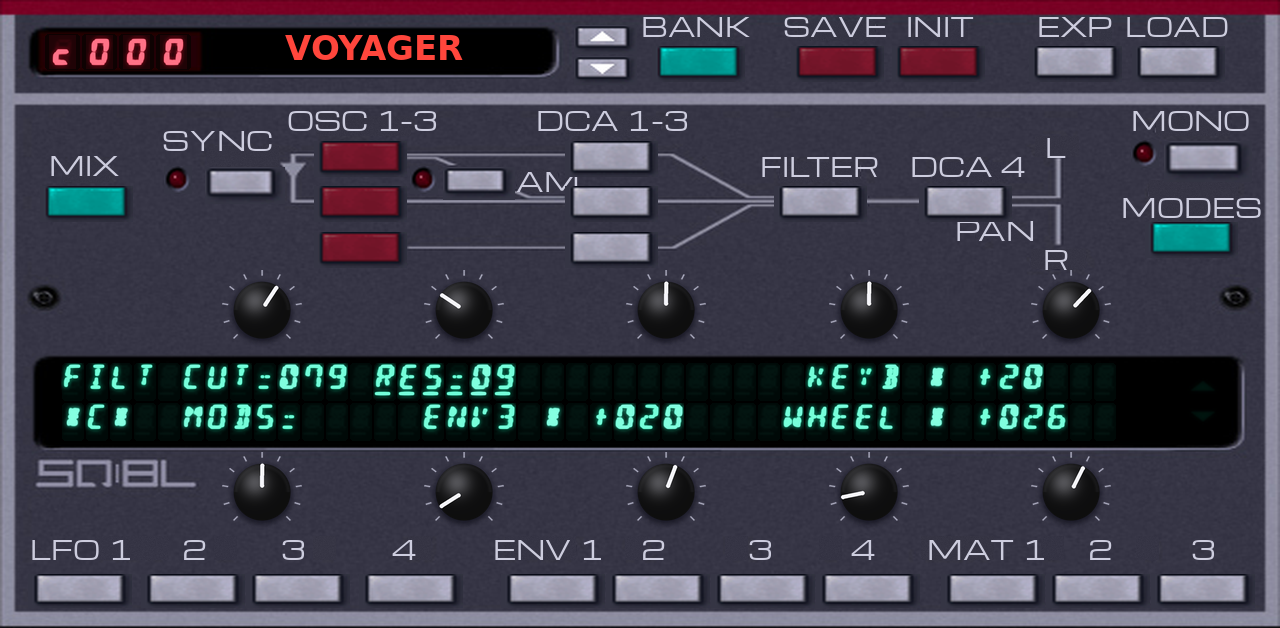
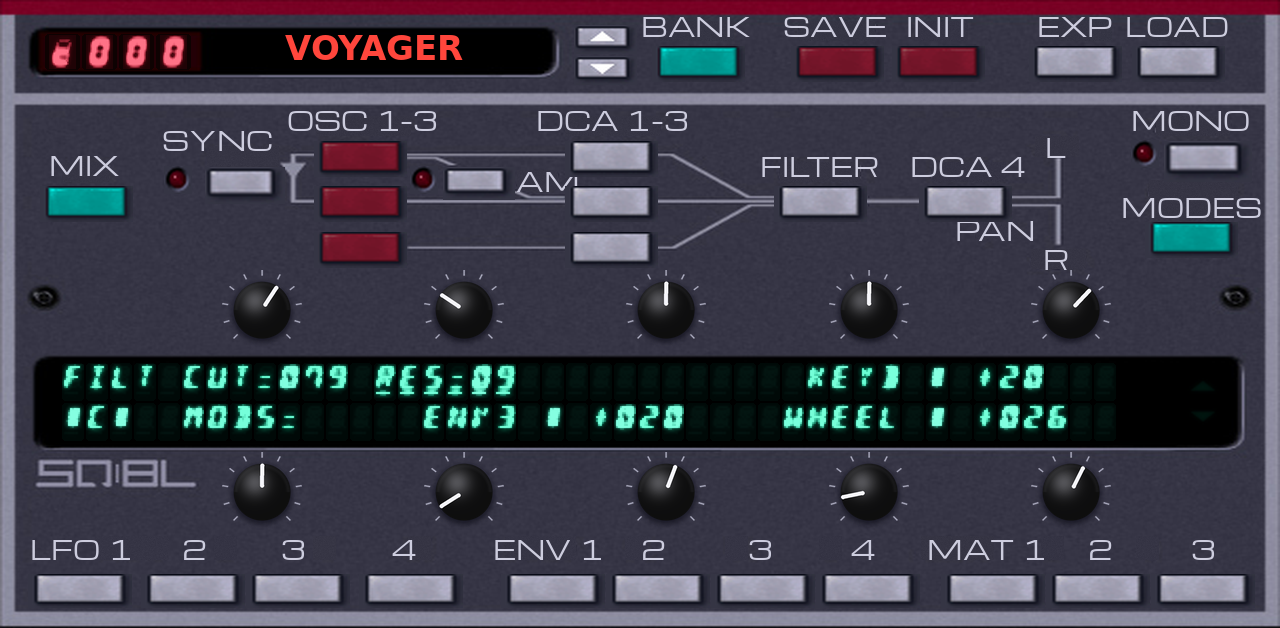
Skin: display glyphs as an exact 2x of the original pixel font; screenshots for 0.2.0
Claude-Session: https://claude.ai/code/session_01YReGWRbcNqxeYHAQ7AQYjU

diff --git a/tools/panel_art.py b/tools/panel_art.py
@@ -42,12 +42,16 @@ def sprite(name, fw, fh):
 def glow_rgba(frame, size, glow=0.9, radius=1.6):
     """an original sprite frame (light on black) redrawn at `size`, crisp and bright so it reads, with a soft glow:
     the colour stays the original's, the darkest unlit segments stay faintly visible (the back-screen look)"""
-    up = frame.resize((size[0] * 3, size[1] * 3), Image.BICUBIC)
-    a = np.asarray(up, np.float32) / 255.0
+    # The original is a pixel font: every lit pixel becomes a square dot (nearest), so the single-pixel diagonals of
+    # V, W, X and Y (drawn fainter than the straight segments) stay a staircase that reads, instead of melting into blobs.
+    a0 = np.asarray(frame, np.float32) / 255.0
+    lum0 = a0.max(axis=2)
+    t0 = np.clip((lum0 - 0.22) / 0.25, 0, 1) ** 0.5    # faint diagonal pixels (~0.3-0.6) are lit nearly as much as the main strokes
+    lit = np.asarray(Image.fromarray((t0 * 255).astype(np.uint8)).resize((size[0] * 3, size[1] * 3), Image.NEAREST), np.float32) / 255.0
+    lit = np.asarray(Image.fromarray((lit * 255).astype(np.uint8)).filter(ImageFilter.GaussianBlur(0.6)), np.float32) / 255.0
+    lit = np.clip(lit * 1.15, 0, 1)                 # a touch of softening at the dot edges only
+    a = np.asarray(frame.resize((size[0] * 3, size[1] * 3), Image.BICUBIC), np.float32) / 255.0
     lum = a.max(axis=2)
-    t = np.clip((lum - 0.30) / 0.35, 0, 1)
-    lit = t * t * (3 - 2 * t)                       # crisp lit segments
-    lit = ndimage.maximum_filter(lit, size=3)       # a little bolder so it reads on the Force
     ghost = np.clip(lum, 0, 0.30) * 0.55            # faint unlit segments
     core = np.asarray(Image.fromarray((lit * 255).astype(np.uint8)).filter(ImageFilter.GaussianBlur(radius * 3.2)), np.float32) / 255.0
     hot = a[lum > 0.6]
@@ -334,8 +338,8 @@ def vfd_strip(sk, cw, ch):
     if name in sk.used:
         return name
     fr = sprite("charGIF", 11, 18)
-    gh = ch - 2
-    gw = R(gh * 11 / 18)
+    k = max(1, (ch - 2) // 18)                      # whole-pixel scale of the 11 x 18 font (2x in a 24 x 40 cell)
+    gh, gw = 18 * k, 11 * k
     strip = Image.new("RGBA", (cw, ch * len(fr)), (0, 0, 0, 0))
     for i, f in enumerate(fr):
         g = glow_rgba(f, (gw, gh))
